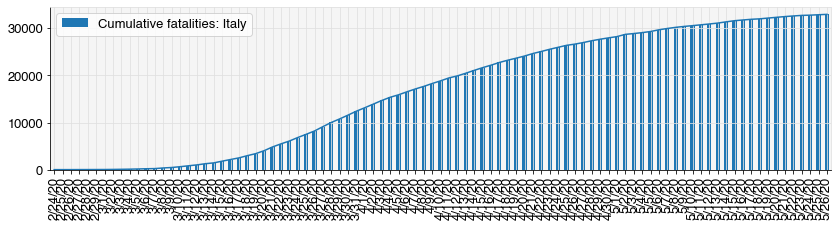
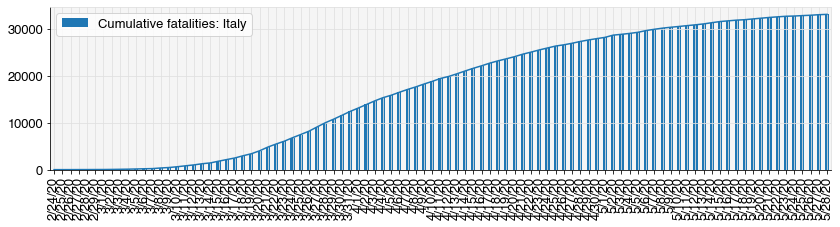
weekly crontab backup

diff --git a/01 - Daily_Report_Spain.md b/01 - Daily_Report_Spain.md
@@ -20,14 +20,14 @@ from ne_epidemic.utilities import sir_prediction_from_country
 sir_prediction_from_country('Spain')
 ```
 
-    Today's date: 2020-05-27 
+    Today's date: 2020-05-29 
     
     Country:  Spain
     - UCI database:  https://raw.githubusercontent.com/datadista/datasets/master/COVID%2019/ccaa_camas_uci_2017.csv
     - Total UCI beds:  4404
     - Fatalities database:  https://raw.githubusercontent.com/CSSEGISandData/COVID-19/master/csse_covid_19_data/csse_covid_19_time_series/time_series_covid19_deaths_global.csv
     - First day with more than 5 casualties (m/d/y):  3 / 7 / 2020
-    - Days since first fatalities:  81
+    - Days since first fatalities:  83
 
 
 
@@ -38,8 +38,8 @@ sir_prediction_from_country('Spain')
 ![png](01%20-%20Daily_Report_Spain_files/01%20-%20Daily_Report_Spain_2_2.png)
 
 
-    - Last day with data: 5/26/20
-    - Spain fatalities to date: 27117
+    - Last day with data: 5/28/20
+    - Spain fatalities to date: 27119
      
     
     Model Initial parameters:
@@ -52,19 +52,19 @@ sir_prediction_from_country('Spain')
     day since start simulation: 37  => beta reduction factor: 0.48
     
     Fitting parameters N0 and beta
-    Initial loss: 1478262
+    Initial loss: 1510340
     Optimization terminated successfully.
-             Current function value: 3589.507136
-             Iterations: 79
-             Function evaluations: 156
+             Current function value: 4206.039450
+             Iterations: 83
+             Function evaluations: 159
     Estimated parameters:
-    N0: 22908
+    N0: 23566
     beta0 (contacts per day): 0.35
-    R0: 1.74
+    R0: 1.73
     
-    Final loss: 3589
-    Initial/Final % loss: 0.24
-    Normalized Loss (per million persons, per day) 0.95 
+    Final loss: 4206
+    Initial/Final % loss: 0.28
+    Normalized Loss (per million persons, per day) 1.086 
     
     
     _____________________________________________________________________
@@ -73,14 +73,14 @@ sir_prediction_from_country('Spain')
     
     Model name: optimized 2 pars
     
-    Simulated days: 141.0
-    Initially infected/Total population (N0/N): 22908/46660000 (49.1 per 100,000)
+    Simulated days: 143.0
+    Initially infected/Total population (N0/N): 23566/46660000 (50.5 per 100,000)
     beta (per day): 0.3 , nu (per day): 0.2
     1/beta (days): 2.9 , 1/nu (days): 5.0
     IFR: 0.01
     Initial Doubling time: 4.7  days, Initial R0: 1.7
     Interventions:
-      1/beta at day 7.0  = 5.5  days, R0 = 0.91
+      1/beta at day 7.0  = 5.5  days, R0 = 0.9
       1/beta at day 24.0  = 6.0  days, R0 = 0.83
       1/beta at day 37.0  = 6.0  days, R0 = 0.83
     Latency for intervention effect on fatalities (days): 13
@@ -89,18 +89,18 @@ sir_prediction_from_country('Spain')
     
     _____________________________________________________________________
     
-    MODEL'S OUTPUTS FOR TODAY: 2020-05-27
-       Infected: 42581 (0.1%)
-       Recovered: 2871292 (6.2%)
-       Exposed to date: 2913873 (6.2%)
-       In ICU: 596
-       Fatalities: 28712
+    MODEL'S OUTPUTS FOR TODAY: 2020-05-29
+       Infected: 37722 (0.1%)
+       Recovered: 2870327 (6.2%)
+       Exposed to date: 2908049 (6.2%)
+       In ICU: 528
+       Fatalities: 28703
      
-    MEDIUM TERM FORECAST (141 days from model start date): 
+    MEDIUM TERM FORECAST (143 days from model start date): 
        Percent of population exposed at end simulation: 6%
-       Peak ICU admissions:  5954  on day 2020-03-27
+       Peak ICU admissions:  5969  on day 2020-03-27
        (note model does not account for long ICU stays)
-       Total fatalities at end of simulation: 30503
+       Total fatalities at end of simulation: 30275
 
 
 
@@ -126,5 +126,5 @@ sir_prediction_from_country('Spain')
           The derivative of the quadratic is used to estimate doubling time and R(t).
     Rt estimated from doubling time using nu= 0.2
     
-    Run finished 2020-05-27 21:59:49.860425
+    Run finished 2020-05-29 15:34:14.559131
 

diff --git a/02 - Daily_Report_Italy.md b/02 - Daily_Report_Italy.md
@@ -20,12 +20,12 @@ from ne_epidemic.utilities import sir_prediction_from_country
 sir_prediction_from_country('Italy')
 ```
 
-    Today's date: 2020-05-27 
+    Today's date: 2020-05-29 
     
     Country:  Italy
     - Fatalities database:  https://raw.githubusercontent.com/CSSEGISandData/COVID-19/master/csse_covid_19_data/csse_covid_19_time_series/time_series_covid19_deaths_global.csv
     - First day with more than 5 casualties (m/d/y):  2 / 24 / 2020
-    - Days since first fatalities:  93
+    - Days since first fatalities:  95
 
 
 
@@ -36,8 +36,8 @@ sir_prediction_from_country('Italy')
 ![png](02%20-%20Daily_Report_Italy_files/02%20-%20Daily_Report_Italy_1_2.png)
 
 
-    - Last day with data: 5/26/20
-    - Italy fatalities to date: 32955
+    - Last day with data: 5/28/20
+    - Italy fatalities to date: 33142
      
     
     Model Initial parameters:
@@ -50,19 +50,19 @@ sir_prediction_from_country('Italy')
     day since start simulation: 27  => beta reduction factor: 0.61
     
     Fitting parameters N0 and beta
-    Initial loss: 491079
+    Initial loss: 496798
     Optimization terminated successfully.
-             Current function value: 2572.982077
-             Iterations: 77
-             Function evaluations: 144
+             Current function value: 2639.181349
+             Iterations: 82
+             Function evaluations: 159
     Estimated parameters:
-    N0: 38811
+    N0: 38508
     beta0 (contacts per day): 0.36
-    R0: 1.78
+    R0: 1.79
     
-    Final loss: 2572
-    Initial/Final % loss: 0.52
-    Normalized Loss (per million persons, per day) 0.457 
+    Final loss: 2639
+    Initial/Final % loss: 0.53
+    Normalized Loss (per million persons, per day) 0.459 
     
     
     _____________________________________________________________________
@@ -71,8 +71,8 @@ sir_prediction_from_country('Italy')
     
     Model name: optimized 2 pars
     
-    Simulated days: 114.0
-    Initially infected/Total population (N0/N): 38811/60480000 (64.2 per 100,000)
+    Simulated days: 116.0
+    Initially infected/Total population (N0/N): 38508/60480000 (63.7 per 100,000)
     beta (per day): 0.4 , nu (per day): 0.2
     1/beta (days): 2.8 , 1/nu (days): 5.0
     IFR: 0.0016666666666666668
@@ -87,18 +87,18 @@ sir_prediction_from_country('Italy')
     
     _____________________________________________________________________
     
-    MODEL'S OUTPUTS FOR TODAY: 2020-05-27
-       Infected: 228314 (0.4%)
-       Recovered: 19581753 (32.4%)
-       Exposed to date: 19810067 (32.8%)
-       In ICU: 285
-       Fatalities: 32636
+    MODEL'S OUTPUTS FOR TODAY: 2020-05-29
+       Infected: 206211 (0.3%)
+       Recovered: 19690216 (32.6%)
+       Exposed to date: 19896427 (32.9%)
+       In ICU: 257
+       Fatalities: 32817
      
-    MEDIUM TERM FORECAST (114 days from model start date): 
+    MEDIUM TERM FORECAST (116 days from model start date): 
        Percent of population exposed at end simulation: 33%
        Peak ICU admissions:  2862  on day 2020-03-28
        (note model does not account for long ICU stays)
-       Total fatalities at end of simulation: 33595
+       Total fatalities at end of simulation: 33681
 
 
 
@@ -124,7 +124,7 @@ sir_prediction_from_country('Italy')
           The derivative of the quadratic is used to estimate doubling time and R(t).
     Rt estimated from doubling time using nu= 0.2
     
-    Run finished 2020-05-27 22:00:19.124758
+    Run finished 2020-05-29 15:34:43.664918
 
 
 

diff --git a/00 - Data_Overview.md b/00 - Data_Overview.md
@@ -24,7 +24,7 @@ _ = get_doubling_time(df, nu=1/5, ndays=7)
 
     - Fatalities database:  https://raw.githubusercontent.com/CSSEGISandData/COVID-19/master/csse_covid_19_data/csse_covid_19_time_series/time_series_covid19_deaths_global.csv
     - First day with more than 5 casualties (m/d/y):  3 / 7 / 2020
-    - Days since first fatalities:  82
+    - Days since first fatalities:  83
 
 
 
@@ -35,8 +35,8 @@ _ = get_doubling_time(df, nu=1/5, ndays=7)
 ![png](00%20-%20Data_Overview_files/00%20-%20Data_Overview_3_2.png)
 
 
-    - Last day with data: 5/27/20
-    - Spain fatalities to date: 27117
+    - Last day with data: 5/28/20
+    - Spain fatalities to date: 27119
      
 
 
@@ -59,7 +59,7 @@ _ = get_doubling_time(df, nu=1/5, ndays=7)
 
     - Fatalities database:  https://raw.githubusercontent.com/CSSEGISandData/COVID-19/master/csse_covid_19_data/csse_covid_19_time_series/time_series_covid19_deaths_global.csv
     - First day with more than 5 casualties (m/d/y):  2 / 24 / 2020
-    - Days since first fatalities:  94
+    - Days since first fatalities:  95
 
 
 
@@ -70,8 +70,8 @@ _ = get_doubling_time(df, nu=1/5, ndays=7)
 ![png](00%20-%20Data_Overview_files/00%20-%20Data_Overview_5_2.png)
 
 
-    - Last day with data: 5/27/20
-    - Italy fatalities to date: 33072
+    - Last day with data: 5/28/20
+    - Italy fatalities to date: 33142
      
 
 
@@ -94,7 +94,7 @@ _ = get_doubling_time(df, nu=1/5, ndays=7)
 
     - Fatalities database:  https://raw.githubusercontent.com/CSSEGISandData/COVID-19/master/csse_covid_19_data/csse_covid_19_time_series/time_series_covid19_deaths_global.csv
     - First day with more than 5 casualties (m/d/y):  3 / 20 / 2020
-    - Days since first fatalities:  69
+    - Days since first fatalities:  70
 
 
 
@@ -105,8 +105,8 @@ _ = get_doubling_time(df, nu=1/5, ndays=7)
 ![png](00%20-%20Data_Overview_files/00%20-%20Data_Overview_7_2.png)
 
 
-    - Last day with data: 5/27/20
-    - Portugal fatalities to date: 1356
+    - Last day with data: 5/28/20
+    - Portugal fatalities to date: 1369
      
 
 
@@ -129,7 +129,7 @@ _ = get_doubling_time(df, nu=1/5, ndays=7)
 
     - Fatalities database:  https://raw.githubusercontent.com/CSSEGISandData/COVID-19/master/csse_covid_19_data/csse_covid_19_time_series/time_series_covid19_deaths_global.csv
     - First day with more than 5 casualties (m/d/y):  3 / 5 / 2020
-    - Days since first fatalities:  84
+    - Days since first fatalities:  85
 
 
 
@@ -140,8 +140,8 @@ _ = get_doubling_time(df, nu=1/5, ndays=7)
 ![png](00%20-%20Data_Overview_files/00%20-%20Data_Overview_9_2.png)
 
 
-    - Last day with data: 5/27/20
-    - France fatalities to date: 28546
+    - Last day with data: 5/28/20
+    - France fatalities to date: 28611
      
 
 
@@ -164,7 +164,7 @@ _ = get_doubling_time(df, nu=1/5, ndays=7)
 
     - Fatalities database:  https://raw.githubusercontent.com/CSSEGISandData/COVID-19/master/csse_covid_19_data/csse_covid_19_time_series/time_series_covid19_deaths_global.csv
     - First day with more than 5 casualties (m/d/y):  3 / 2 / 2020
-    - Days since first fatalities:  87
+    - Days since first fatalities:  88
 
 
 
@@ -175,8 +175,8 @@ _ = get_doubling_time(df, nu=1/5, ndays=7)
 ![png](00%20-%20Data_Overview_files/00%20-%20Data_Overview_11_2.png)
 
 
-    - Last day with data: 5/27/20
-    - US fatalities to date: 100417
+    - Last day with data: 5/28/20
+    - US fatalities to date: 101616
      
 
 
